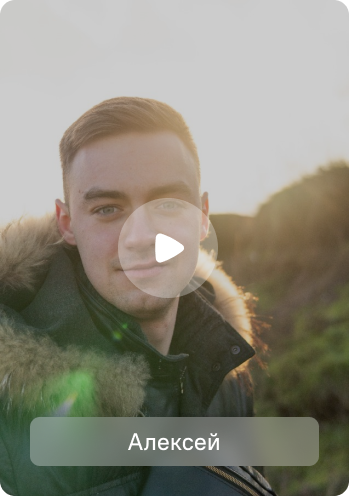
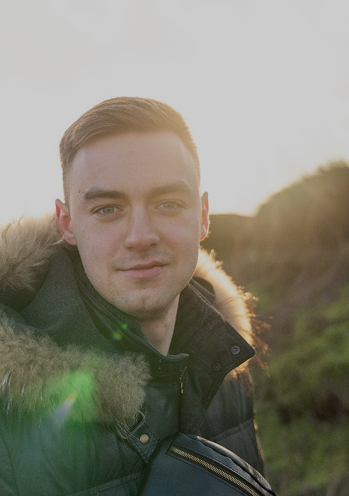
fix

diff --git a/backend/src/main.ts b/backend/src/main.ts
@@ -6,17 +6,10 @@ import { join } from 'path';
 
 async function bootstrap() {
   const app = await NestFactory.create<NestExpressApplication>(AppModule);
-<<<<<<< Updated upstream
-  
+
   // CORS კონფიგურაცია - ყველა origin-ის უშვება დეველოპმენტისთვის
   app.enableCors({
     origin: true, // ყველა origin-ის უშვება
-=======
-
-  // CORS კონფიგურაცია
-  app.enableCors({
-    origin: ['http://localhost:3000', 'http://localhost:3001'], // ფრონტენდის URL
->>>>>>> Stashed changes
     credentials: true,
     methods: ['GET', 'POST', 'PUT', 'DELETE', 'PATCH', 'OPTIONS'],
     allowedHeaders: ['Content-Type', 'Authorization'],

diff --git a/backend/dist/src/main.js b/backend/dist/src/main.js
@@ -7,11 +7,7 @@ const path_1 = require("path");
 async function bootstrap() {
     const app = await core_1.NestFactory.create(app_module_1.AppModule);
     app.enableCors({
-<<<<<<< Updated upstream
         origin: true,
-=======
-        origin: ['http://localhost:3000', 'http://localhost:3001'],
->>>>>>> Stashed changes
         credentials: true,
         methods: ['GET', 'POST', 'PUT', 'DELETE', 'PATCH', 'OPTIONS'],
         allowedHeaders: ['Content-Type', 'Authorization'],
